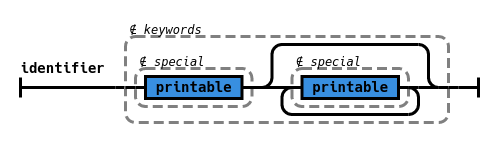
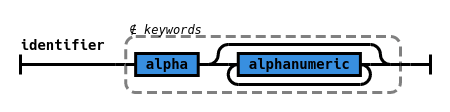
rework lexicon for operators & identifiers

Changed region(s): [[0.0311, 0.1607, 0.9644, 0.8839]]

diff --git a/part1-zilch.tex b/part1-zilch.tex
@@ -77,10 +77,8 @@ Note that the Unicode alternative syntax does not need to be supported, but make
 
 \subsection{Identifiers, operators and reserved words}\label{subsec:zilch-grammar-lexical-identifiers}
 
-Identifiers and operators are the same thing thanks to mixfix operators.
-They are composed of only printable characters which are not considered special, and must not form keywords.
-
-Mixfix operators also do not allow keywords as backbones (that is, \texttt{\_->\_} is not a valid mixfix operator because \texttt{->} is a keyword; however \texttt{\_->*\_} is valid because the backbone contains \texttt{->*}, not \texttt{->}).
+Identifiers and operators are composed of only printable characters which are not considered special, and must not form keywords.
+Lexically distinguishing between both types of symbols is done by only allowing alphanumeraical characters in identifiers, and symbolic characters in operators.
 
 \begin{figure}[H]
   \centering
@@ -99,11 +97,14 @@ Mixfix operators also do not allow keywords as backbones (that is, \texttt{\_->\
       \\
       \scalebox{.5}{
         \includegraphics{zilch/lexicon/identifier}
+      }\\
+      \scalebox{.5}{
+        \includegraphics{zilch/lexicon/symbol}
       }
     }
   }
 
-  \caption{Lexical units for identifiers.}
+  \caption{Lexical units for identifiers and operators.}
   \label{fig:zilch-grammar-lexical-identifiers-grammar}
 \end{figure}
 
@@ -400,9 +401,6 @@ Any other type can be used anywhere.
       }\\
       \scalebox{.5}{
         \includegraphics{zilch/types/constrained}
-      }\\
-      \scalebox{.5}{
-        \includegraphics{zilch/types/function}
       }\\
       \scalebox{.5}{
         \includegraphics{zilch/types/application}

diff --git a/railroad-diagrams.py b/railroad-diagrams.py
@@ -645,15 +645,9 @@ def zilch_function_definition():
 def zilch_identifier():
 	inner = Group(
 		Sequence(
-			Group(
-				NonTerminal('printable'),
-				'∉ special'
-			),
+			NonTerminal('alpha'),
 			ZeroOrMore(
-				Group(
-					NonTerminal('printable'),
-					'∉ special'
-				)
+				NonTerminal('alphanumeric')
 			)
 		),
 		'∉ keywords'
@@ -1604,5 +1598,23 @@ def zilch_meta_specifier():
 
 	return mk_diagram2('meta-specifier', inner)
 
+def zilch_symbol():
+	inner = Group(
+		Sequence(
+			Group(
+				NonTerminal('symbol'),
+				'∉ special'
+			),
+			ZeroOrMore(
+				Group(
+					NonTerminal('symbol'),
+					'∉ special'
+				)
+			)
+		),
+		'∉ keywords'
+	)
 
-zilch_function_type().writeSvg(sys.stdout.write)
+	return mk_diagram2('symbol', inner)
+
+zilch_symbol().writeSvg(sys.stdout.write)
